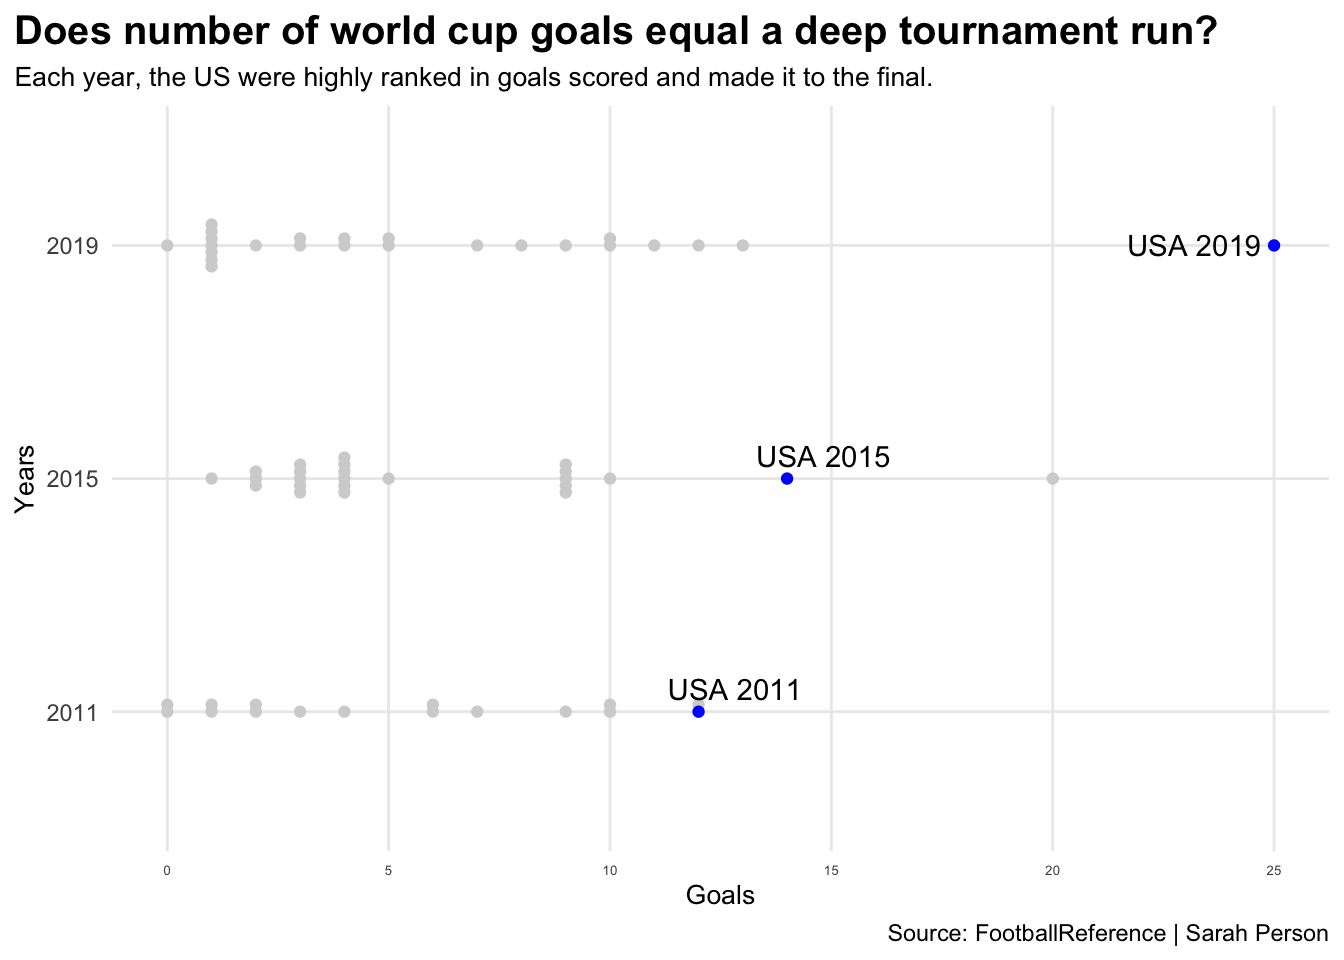
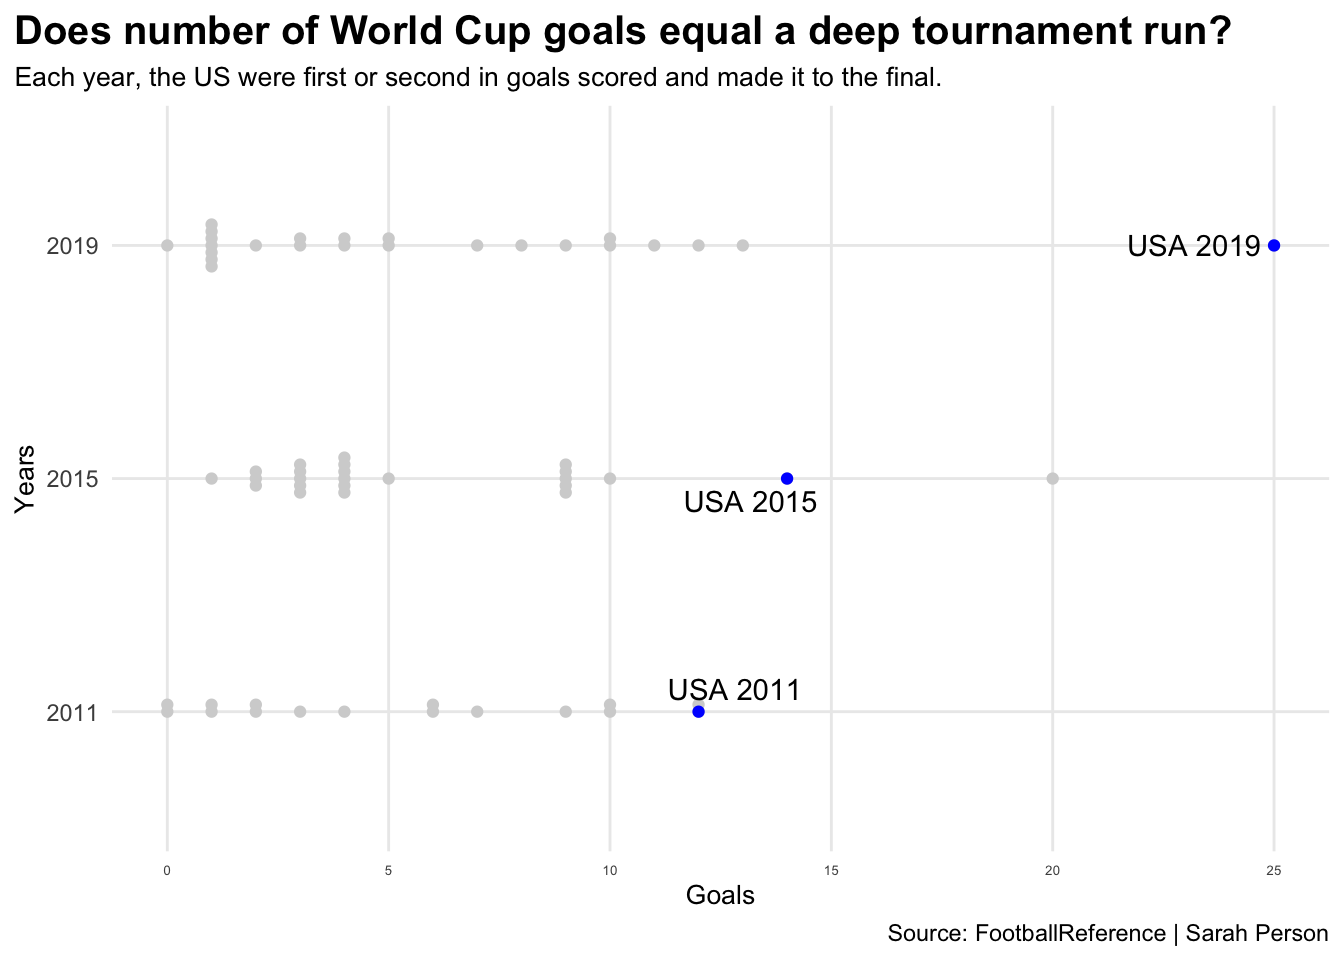
post 2
post 2

Changed region(s): [[0.2188, 0.0, 0.9062, 0.0938], [0.5, 0.4688, 0.6562, 0.5312]]

diff --git a/posts/is-the-us-womens-soccer-team-the-most-dominant-in-the-world/index.html b/posts/is-the-us-womens-soccer-team-the-most-dominant-in-the-world/index.html
@@ -213,10 +213,11 @@ code span.wa { color: #60a0b0; font-weight: bold; font-style: italic; } /* Warni
 
 
 
-<p>The US Women’s soccer team has absolutely been tearing it up in recent years with numerous titles and awards to their name. If your a follower of international soccer chances are you have seen the team’s dominance throughout history.</p>
+<p>The US Women’s soccer team has absolutely been tearing it up in recent years with numerous titles and awards to their name. If your a follower of international soccer, chances are you have seen the team’s dominance throughout history.</p>
 <p>But are they really the best? Many things come into play when determining the number one team in the world. You may take a look at the Olympics, World Cups, and even rankings.</p>
-<p>The US has crushed their opponents in all three categories so are they truly the most dominant team in the world?</p>
-<p>The first thing to look at when showing dominance on the international stage is Olympic Medals.</p>
+<p>The US has crushed their opponents in all three categories. Any soccer fan could tell you how great they are.</p>
+<p>If you are not a fan or follower of the game however, you may be thinking that other countries can compete with them. Are they truly the most dominant team in the world? Doesn’t anyone else match up?</p>
+<p>When looking at records, the clear answer is no, and it’s not really close. The US womens soccer team is truly in a league of their own when showing dominance on the international stage.</p>
 <div class="cell">
 <details>
 <summary>Code</summary>
@@ -251,7 +252,7 @@ code span.wa { color: #60a0b0; font-weight: bold; font-style: italic; } /* Warni
 <span id="cb1-29"><a href="#cb1-29" aria-hidden="true" tabindex="-1"></a>  <span class="fu">labs</span>(</span>
 <span id="cb1-30"><a href="#cb1-30" aria-hidden="true" tabindex="-1"></a>    <span class="at">x=</span><span class="st">"Country"</span>, </span>
 <span id="cb1-31"><a href="#cb1-31" aria-hidden="true" tabindex="-1"></a>    <span class="at">y=</span><span class="st">"Total Medals"</span>, </span>
-<span id="cb1-32"><a href="#cb1-32" aria-hidden="true" tabindex="-1"></a>    <span class="at">title=</span><span class="st">"Is the US Womens Soccer Team the best in the nation?"</span>, </span>
+<span id="cb1-32"><a href="#cb1-32" aria-hidden="true" tabindex="-1"></a>    <span class="at">title=</span><span class="st">"Is the US Women's Soccer Team the best in the nation?"</span>, </span>
 <span id="cb1-33"><a href="#cb1-33" aria-hidden="true" tabindex="-1"></a>    <span class="at">subtitle=</span><span class="st">" They have won more olympic medals than any other country."</span>, </span>
 <span id="cb1-34"><a href="#cb1-34" aria-hidden="true" tabindex="-1"></a>    <span class="at">caption=</span><span class="st">"Source: Sporting99 | Sarah Person"</span></span>
 <span id="cb1-35"><a href="#cb1-35" aria-hidden="true" tabindex="-1"></a>    ) <span class="sc">+</span></span>
@@ -269,8 +270,8 @@ code span.wa { color: #60a0b0; font-weight: bold; font-style: italic; } /* Warni
 <p><img src="index_files/figure-html/unnamed-chunk-1-1.png" class="img-fluid" width="672"></p>
 </div>
 </div>
-<p>The US has clearly overtakes the number one when it comes to Olympic success. They have won more Gold medals than seven other countries combined and also ahve the most overall medals out of any country.</p>
-<p>Now Olympic medals is not the only thing to look at when proving who is the most dominant team. Another statistic to look at is World Cup titles/goals.</p>
+<p>The US has clearly overtakes the number one when it comes to Olympic success. They have won more gold medals than seven other countries combined and also have the most overall medals out of any country.</p>
+<p>Now Olympic medals is not the only thing to look at when proving who is the most dominant team. Another statistic to look at is World Cup titles and goals.</p>
 <div class="cell">
 <details>
 <summary>Code</summary>
@@ -286,8 +287,8 @@ code span.wa { color: #60a0b0; font-weight: bold; font-style: italic; } /* Warni
 <span id="cb2-10"><a href="#cb2-10" aria-hidden="true" tabindex="-1"></a>  <span class="fu">labs</span>(</span>
 <span id="cb2-11"><a href="#cb2-11" aria-hidden="true" tabindex="-1"></a>    <span class="at">x=</span><span class="st">"Goals"</span>, </span>
 <span id="cb2-12"><a href="#cb2-12" aria-hidden="true" tabindex="-1"></a>    <span class="at">y=</span><span class="st">"Years"</span>, </span>
-<span id="cb2-13"><a href="#cb2-13" aria-hidden="true" tabindex="-1"></a>    <span class="at">title=</span><span class="st">"Does number of world cup goals equal a deep tournament run?"</span>, </span>
-<span id="cb2-14"><a href="#cb2-14" aria-hidden="true" tabindex="-1"></a>    <span class="at">subtitle=</span><span class="st">"Each year, the US were highly ranked in goals scored and made it to the final."</span>, </span>
+<span id="cb2-13"><a href="#cb2-13" aria-hidden="true" tabindex="-1"></a>    <span class="at">title=</span><span class="st">"Does number of World Cup goals equal a deep tournament run?"</span>, </span>
+<span id="cb2-14"><a href="#cb2-14" aria-hidden="true" tabindex="-1"></a>    <span class="at">subtitle=</span><span class="st">"Each year, the US were first or second in goals scored and made it to the final."</span>, </span>
 <span id="cb2-15"><a href="#cb2-15" aria-hidden="true" tabindex="-1"></a>    <span class="at">caption=</span><span class="st">"Source: FootballReference | Sarah Person"</span></span>
 <span id="cb2-16"><a href="#cb2-16" aria-hidden="true" tabindex="-1"></a>    )<span class="sc">+</span></span>
 <span id="cb2-17"><a href="#cb2-17" aria-hidden="true" tabindex="-1"></a>  <span class="fu">theme_minimal</span>() <span class="sc">+</span> </span>
@@ -306,7 +307,7 @@ code span.wa { color: #60a0b0; font-weight: bold; font-style: italic; } /* Warni
 </div>
 <p>Does scoring a lot of goals in the world cup accumulate to a deep run in the tournament? In the last three world cups, the US has been either first or second in goals scored.</p>
 <p>They made the championship all three times, while winning two of those. So yes, amount of goals does equal a deep run in the tournament and the US has clearly shown that.</p>
-<p>There is one more thing to look at when determining the most dominant womens soccer team and that is FIFA ranking.</p>
+<p>There is one more thing to look at when determining the most dominant women’s soccer team and that is FIFA ranking.</p>
 <div class="cell">
 <details>
 <summary>Code</summary>
@@ -323,7 +324,7 @@ code span.wa { color: #60a0b0; font-weight: bold; font-style: italic; } /* Warni
 <span id="cb3-11"><a href="#cb3-11" aria-hidden="true" tabindex="-1"></a>  <span class="fu">geom_point</span>(<span class="at">data=</span>bump, <span class="fu">aes</span>(<span class="at">x=</span>Date, <span class="at">y=</span>RK, <span class="at">color=</span>Team), <span class="at">size =</span> <span class="dv">4</span>) <span class="sc">+</span></span>
 <span id="cb3-12"><a href="#cb3-12" aria-hidden="true" tabindex="-1"></a>  <span class="fu">geom_text</span>(<span class="at">data =</span> bump <span class="sc">%&gt;%</span> <span class="fu">filter</span>(Date <span class="sc">==</span> <span class="fu">min</span>(Date)), <span class="fu">aes</span>(<span class="at">x =</span> Date <span class="sc">-</span> .<span class="dv">2</span>, <span class="at">y=</span>RK, <span class="at">label =</span> Team), <span class="at">size =</span> <span class="dv">3</span>, <span class="at">hjust =</span> <span class="dv">1</span>)<span class="sc">+</span></span>
 <span id="cb3-13"><a href="#cb3-13" aria-hidden="true" tabindex="-1"></a>  <span class="fu">geom_text</span>(<span class="at">data =</span> bump <span class="sc">%&gt;%</span> <span class="fu">filter</span>(Date <span class="sc">==</span> <span class="fu">max</span>(Date)), <span class="fu">aes</span>(<span class="at">x =</span> Date <span class="sc">+</span> .<span class="dv">2</span>, <span class="at">y=</span>RK, <span class="at">label =</span> Team), <span class="at">size =</span> <span class="dv">3</span>, <span class="at">hjust =</span> <span class="dv">0</span>)<span class="sc">+</span></span>
-<span id="cb3-14"><a href="#cb3-14" aria-hidden="true" tabindex="-1"></a>  <span class="fu">labs</span>(<span class="at">title=</span><span class="st">"Who is the number one team in the word?"</span>, <span class="at">subtitle=</span><span class="st">"According to FIFA, the US has been constantly ranked number 1 for the last five years."</span>, <span class="at">y=</span> <span class="st">""</span>, <span class="at">x =</span> <span class="st">""</span>, </span>
+<span id="cb3-14"><a href="#cb3-14" aria-hidden="true" tabindex="-1"></a>  <span class="fu">labs</span>(<span class="at">title=</span><span class="st">"The number one ranked team hasn't changed"</span>, <span class="at">subtitle=</span><span class="st">"According to FIFA, the US has been constantly ranked number 1 for the last five years."</span>, <span class="at">y=</span> <span class="st">""</span>, <span class="at">x =</span> <span class="st">""</span>, </span>
 <span id="cb3-15"><a href="#cb3-15" aria-hidden="true" tabindex="-1"></a>  <span class="at">caption=</span><span class="st">"Source: FIFA | Sarah Person"</span>)<span class="sc">+</span></span>
 <span id="cb3-16"><a href="#cb3-16" aria-hidden="true" tabindex="-1"></a>  <span class="fu">theme_minimal</span>() <span class="sc">+</span></span>
 <span id="cb3-17"><a href="#cb3-17" aria-hidden="true" tabindex="-1"></a>  <span class="fu">theme</span>(</span>
@@ -342,8 +343,9 @@ code span.wa { color: #60a0b0; font-weight: bold; font-style: italic; } /* Warni
 <p><img src="index_files/figure-html/unnamed-chunk-3-1.png" class="img-fluid" width="672"></p>
 </div>
 </div>
-<p>The US has shown its dominance over the last five years as they have never lost the number one ranking. Other countries have risen and falling throughout the years, but the US has consistantly been good.</p>
-<p>In conclusion, the US is the most dominant women’s soccer team in the country. They have outnumbered their opponents in multiple categories including Olympic Medals, World Cup titles/goals, and FIFA ranking.</p>
+<p>The US has shown its dominance over the last five years as they have never lost the number one ranking. Other countries have risen and falling throughout the years, but the US has consistently been good.</p>
+<p>Aside from FIFA ranking, the US also ranks number one in World Cup championships and Olympic medals.</p>
+<p>In conclusion, the US is the most dominant women’s soccer team in the country. They have outnumbered their opponents in multiple categories including Olympic Medals, World Cup titles and goals, and FIFA ranking.</p>
 
 
 

diff --git a/index.html b/index.html
@@ -171,7 +171,7 @@ ul.task-list li input[type="checkbox"] {
 
 <div class="quarto-listing quarto-listing-container-default" id="listing-listing">
 <div class="list quarto-listing-default">
-<div class="quarto-post image-right" data-index="0" data-categories="soccer,code,analysis" data-listing-date-sort="1682658000000" data-listing-file-modified-sort="1683056030212" data-listing-reading-time-sort="4.315">
+<div class="quarto-post image-right" data-index="0" data-categories="soccer,code,analysis" data-listing-date-sort="1682658000000" data-listing-file-modified-sort="1683298043443" data-listing-reading-time-sort="4.695">
 <div class="thumbnail">
 <p><a href="./posts/is-the-us-womens-soccer-team-the-most-dominant-in-the-world/index.html"> <img src="./posts/is-the-us-womens-soccer-team-the-most-dominant-in-the-world/image.png" class="thumnail-image"> </a></p>
 </div>
@@ -197,7 +197,7 @@ analysis
 </div>
 <a href="./posts/is-the-us-womens-soccer-team-the-most-dominant-in-the-world/index.html">
 <div class="listing-description">
-The US Women’s soccer team has absolutely been tearing…
+The US Women’s soccer team has absolutely been tearing it…
 </div>
 </a>
 </div>
